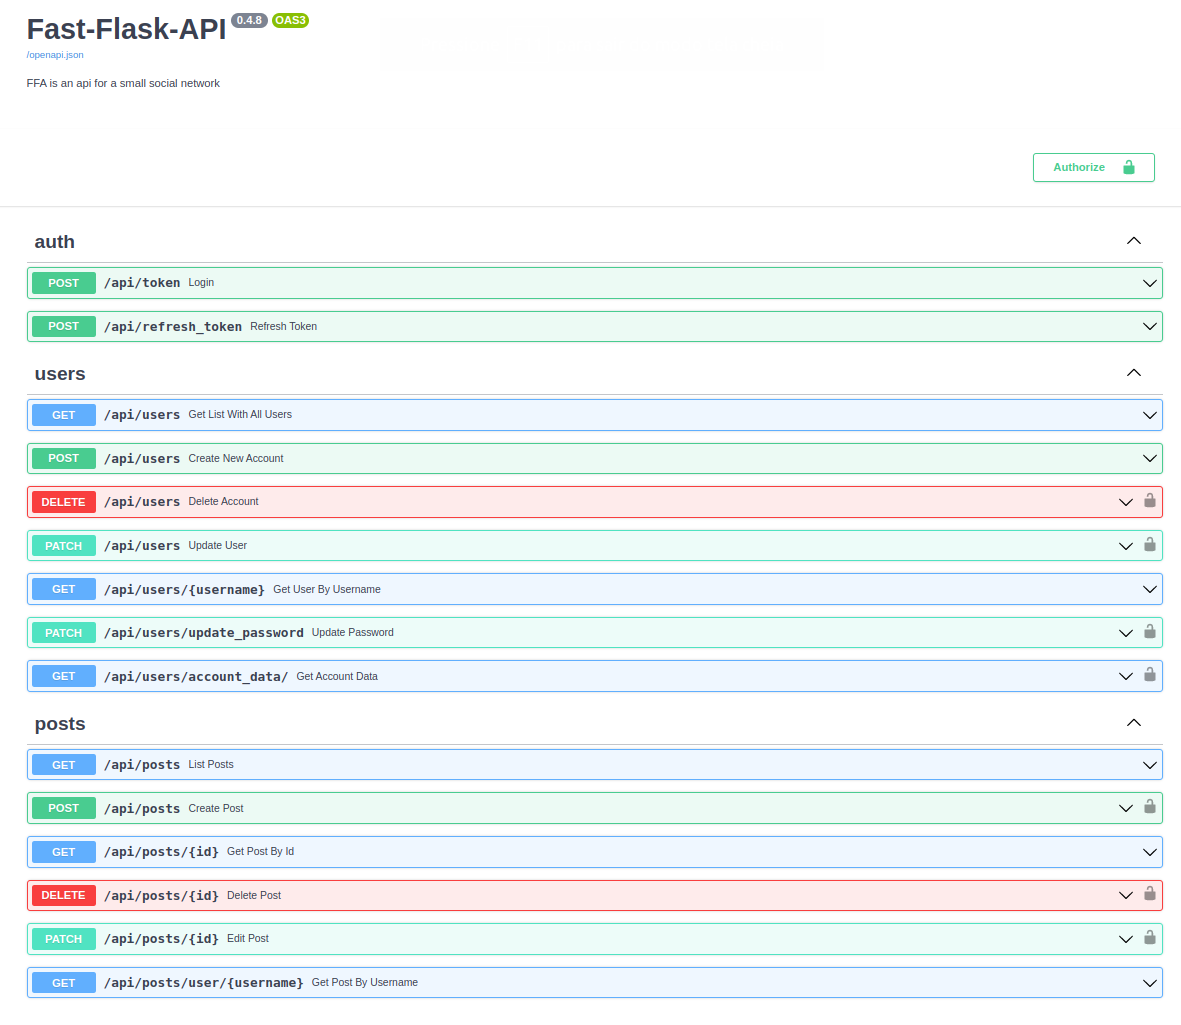
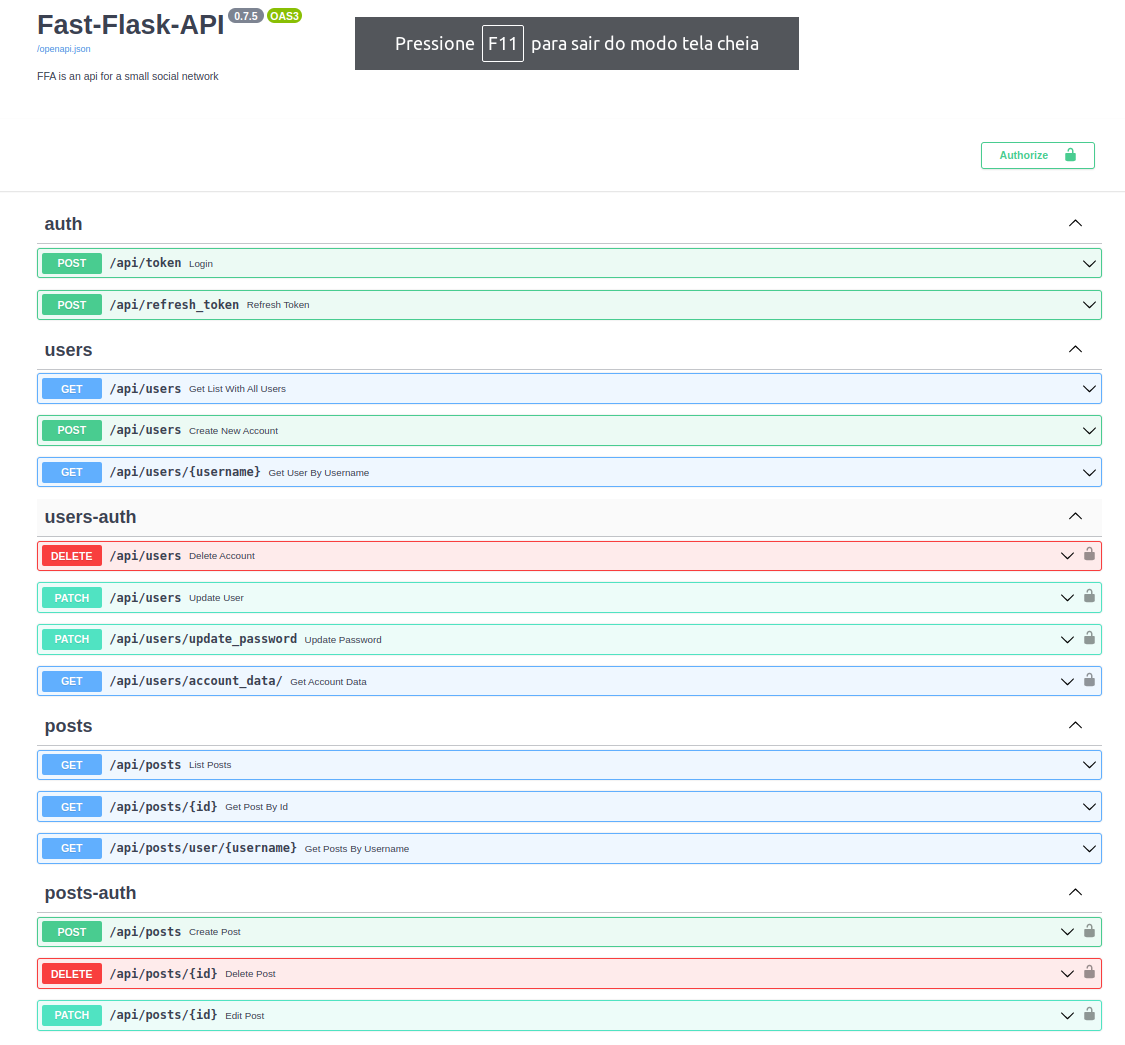
docs: atualização

diff --git a/app/__init__.py b/app/__init__.py
@@ -11,7 +11,7 @@ from .routes import routers
 def app() -> FastAPI:
     app = FastAPI(
         title="Fast-Flask-API",
-        version="0.6.5",
+        version="0.7.5",
         description="FFA is an api for a small social network",
     )
 

diff --git a/docs/README.md b/docs/README.md
@@ -57,7 +57,7 @@ O projeto será modelado no contexto de um Blog, afim de utilizar CRUD nas rotas
 - [x] Listagem de post por id
 - [x] Listagem de posts por usuário
 - [ ] Listagem de posts seguidos (timeline)
-- [ ] Likes em postagens
+- [x] Likes em postagens
 - [ ] Postagem pode ser resposta a outra postagem
 
 
